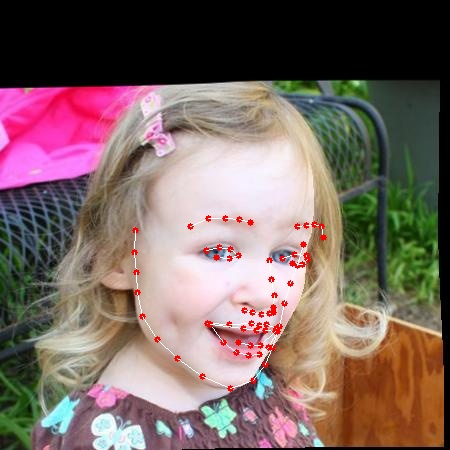
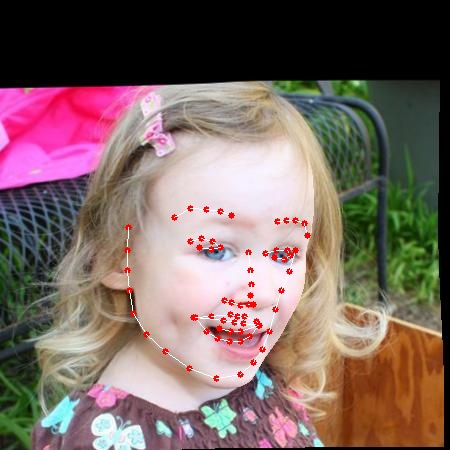
Synergy Completed

diff --git a/losses.py b/losses.py
@@ -1,5 +1,5 @@
 import tensorflow as tf
-from tensorflow import reduce_sum, abs, sqrt
+from tensorflow import reduce_sum, abs, sqrt, divide
 from tensorflow.keras.losses import Loss, MeanSquaredError, Reduction
 
 class ParameterLoss(Loss):
@@ -39,8 +39,10 @@ class WingLoss(Loss):
         C = self.omega - self.omega * self.log_term
         loss2 = delta_y2 - C
         sums = reduce_sum(loss1) + reduce_sum(loss2)
-        lengths = loss1.shape[0] + loss2.shape[0]
-        return sums/lengths
+        lengths = tf.shape(loss1)[0] + tf.shape(loss2)[0]
+        lengths = tf.cast(lengths, dtype=tf.float32)
+        loss_final = divide(sums, lengths)
+        return loss_final
 
     def get_config(self):
         base_config = super().get_config()

diff --git a/model/synergy.py b/model/synergy.py
@@ -45,11 +45,11 @@ class Synergy(Model):
             Param_3D = tf.concat((pose_3DMM, alpha_exp, alpha_shp), axis=-1)
             Lc = self.morphable_model(Param_3D)
             point_residual = self.encoder(Lc, Z, Param_3D[:, 12:22], Param_3D[:, 22:])
-            Lr = tf.add(point_residual, Lc, name='point_residual')
+            Lr = tf.add(0.05*point_residual, Lc, name='point_residual')
             Param_3D_hat = self.decoder(Lr)
             Lg = self.paramLoss(Param_3D, Param_3D_hat)
             self.add_loss(0.001 * Lg)
-            return Param_3D, Param_3D_hat
+            return Param_3D, Param_3D_hat, Lc, Lr
       
       def model(self):
             images = Input(shape=self.input_shape_, name='Input_Images')

diff --git a/sanity_check.py b/sanity_check.py
@@ -33,11 +33,11 @@ optimizer = Nadam(learning_rate=0.0001)
 losses = {
   'output_1': ParameterLoss(name='loss_Param_In', mode='normal'),
   'output_2': ParameterLoss(name='loss_Param_S2', mode='3dmm'),
-  # 'output_3': WingLoss(name='loss_LMK_f0'),
-  # 'output_4': WingLoss(name='loss_LMK_pointNet')
+  'output_3': WingLoss(name='loss_LMK_f0'),
+  'output_4': WingLoss(name='loss_LMK_pointNet')
   }
 
-loss_weights = {'output_1':0.02, 'output_2':0.02}
+loss_weights = {'output_1':0.02, 'output_2':0.02, 'output_3':0.05, 'output_4':0.05}
 model.compile(optimizer, losses, loss_weights=loss_weights)
 print(model.summary())
 model.fit(images, y, verbose=1, epochs=1000)

diff --git a/data_generator/data_generator.py b/data_generator/data_generator.py
@@ -59,7 +59,7 @@ class DataGenerator(Sequence):
         X = np.array(X)
         batch_parameters_3DMM = np.array(batch_parameters_3DMM)
         Lc = self.pca(batch_parameters_3DMM)
-        return X, (batch_parameters_3DMM, batch_parameters_3DMM)
+        return X, (batch_parameters_3DMM, batch_parameters_3DMM, Lc, Lc)
 
     def get_one_instance(self, id):
         batch = [id]
